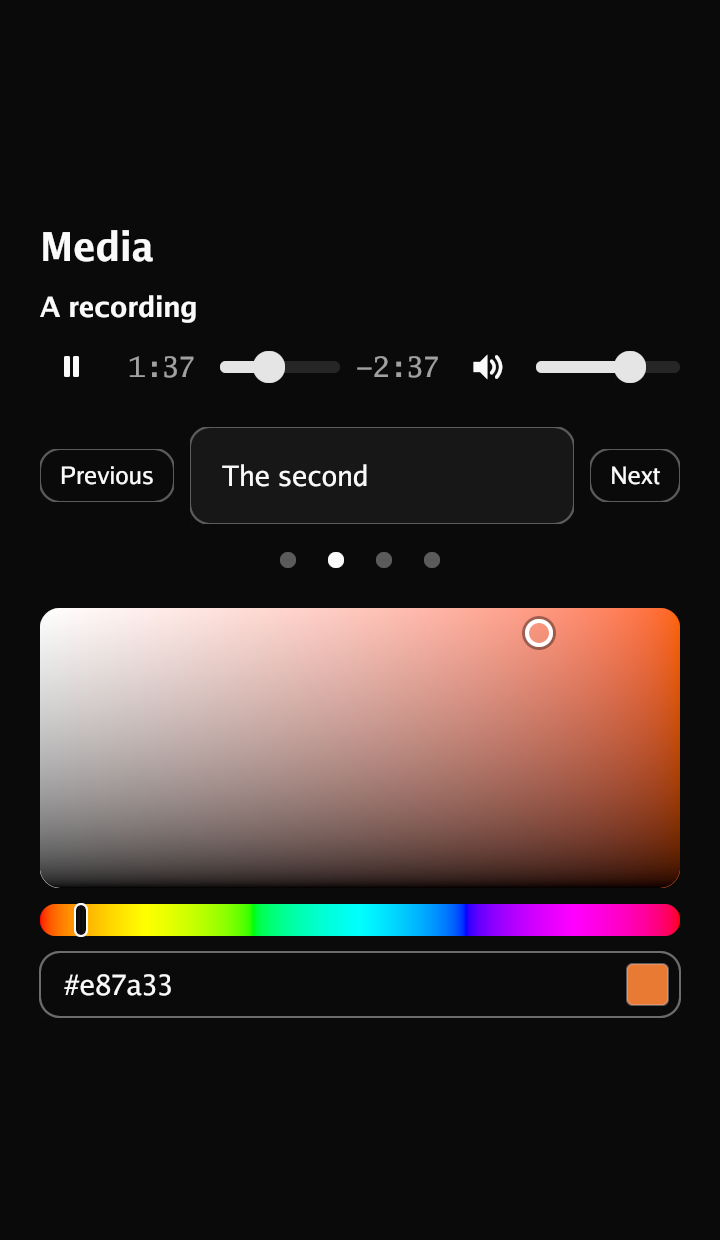
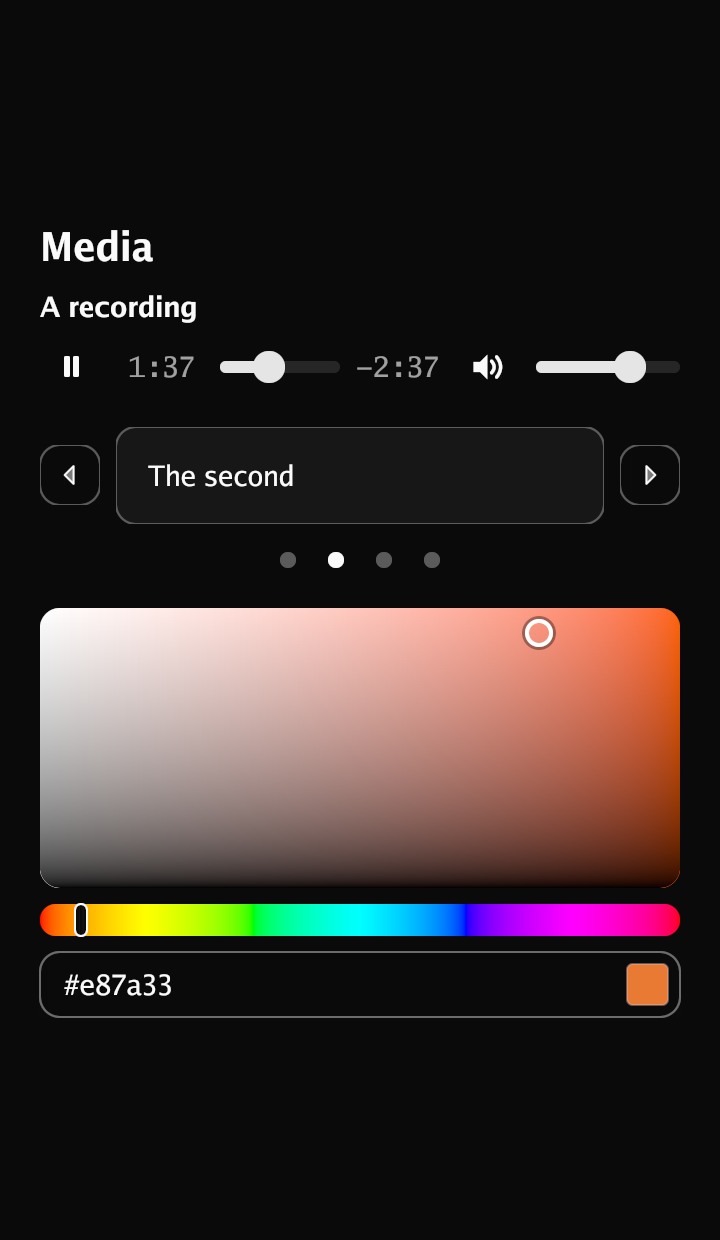
Carousel: draw the steps as arrows with names of the caller's, so the slides keep their room
The steps were the words "Previous" and "Next", on a screen in Portuguese, and
took 150 of the 358 points a phone has: the slide of a carousel with arrows was
190 points wide. They are arrows now, and CarouselProps takes PreviousLabel and
NextLabel for a screen reader, which Kyse's takes as well, defaulting to its
"Previous slide" and "Next slide".

diff --git a/widget/carousel.go b/widget/carousel.go
@@ -12,15 +12,17 @@ import (
 	"github.com/arandu-io/ayra/engine/op/clip"
 	"github.com/arandu-io/ayra/engine/op/paint"
 	"github.com/arandu-io/ayra/engine/unit"
+	"github.com/arandu-io/ayra/icons"
 	"github.com/arandu-io/ayra/theme"
 )
 
-// The words on the two steps. They are the words the pager already uses, so
-// that the two controls a screen puts under a row of things say the same thing
-// -- and so that a translation has one string to find rather than two.
+// The names of the two steps when the caller gives none, which are Kyse's. They
+// are what a screen reader says: the steps are drawn as arrows, because a word on
+// each of them in a language the application is not in -- "Previous" on a
+// Portuguese screen -- is text nobody wrote and nobody can translate.
 const (
-	previousStep = "Previous"
-	nextStep     = "Next"
+	previousStep = "Previous slide"
+	nextStep     = "Next slide"
 )
 
 // Carousel is the state half: which slide is at the front, the presses that
@@ -139,6 +141,10 @@ type CarouselProps struct {
 	Dots bool
 	// Arrows draws the two steps either side of the window.
 	Arrows bool
+	// PreviousLabel and NextLabel name the two steps for a screen reader, which
+	// is all that names them: they are drawn as arrows. Empty says "Previous
+	// slide" and "Next slide", as Kyse does.
+	PreviousLabel, NextLabel string
 	// Gap is the room between one slide and the next, and between the window
 	// and the steps. Zero takes eight points: slides with nothing between them
 	// read as one wide picture rather than as three.
@@ -221,8 +227,8 @@ func (p CarouselProps) layout(c ayra.Context, state *Carousel, slide func(c ayra
 		measure := op.Record(c.Ops)
 		inner := c
 		inner.Constraints.Min = image.Point{}
-		room = p.arrow(previousStep, back).Layout(inner, &state.previous).Size.X
-		room += p.arrow(nextStep, forward).Layout(inner, &state.next).Size.X
+		room = p.arrow(orDefault(p.PreviousLabel, previousStep), back).withIcon(innerIcon("carousel", "CaretLeft")).Layout(inner, &state.previous).Size.X
+		room += p.arrow(orDefault(p.NextLabel, nextStep), forward).withIcon(innerIcon("carousel", "CaretRight")).Layout(inner, &state.next).Size.X
 		measure.Stop()
 	}
 	steps := p.Arrows && arrowsFit(c.Constraints.Max.X, room+2*gap)
@@ -234,7 +240,7 @@ func (p CarouselProps) layout(c ayra.Context, state *Carousel, slide func(c ayra
 		row = append(row, layout.Rigid(func(gtx layout.Context) layout.Dimensions {
 			inner := c.With(gtx)
 			inner.Constraints.Min = image.Point{}
-			return p.arrow(previousStep, back).Layout(inner, &state.previous)
+			return p.arrow(orDefault(p.PreviousLabel, previousStep), back).withIcon(innerIcon("carousel", "CaretLeft")).Layout(inner, &state.previous)
 		}))
 	}
 	row = append(row, layout.Flexed(1, func(gtx layout.Context) layout.Dimensions {
@@ -244,7 +250,7 @@ func (p CarouselProps) layout(c ayra.Context, state *Carousel, slide func(c ayra
 		row = append(row, layout.Rigid(func(gtx layout.Context) layout.Dimensions {
 			inner := c.With(gtx)
 			inner.Constraints.Min = image.Point{}
-			return p.arrow(nextStep, forward).Layout(inner, &state.next)
+			return p.arrow(orDefault(p.NextLabel, nextStep), forward).withIcon(innerIcon("carousel", "CaretRight")).Layout(inner, &state.next)
 		}))
 	}
 
@@ -480,6 +486,12 @@ func (p CarouselProps) dotInk(t theme.Theme, page, first int) color.NRGBA {
 // disabled step says there is no more, in the place the step was.
 func (p CarouselProps) arrow(label string, available bool) ButtonProps {
 	return ButtonProps{Label: label, Variant: Outline, Size: Small, Disabled: p.Disabled || !available}
+}
+
+// withIcon draws the step as an arrow, with the label kept as its name.
+func (b ButtonProps) withIcon(icon icons.Icon) ButtonProps {
+	b.Icon, b.IconOnly, b.Size = icon, true, Icon
+	return b
 }
 
 // view is how many slides are on screen at once.

diff --git a/icons_parity_test.go b/icons_parity_test.go
@@ -91,6 +91,10 @@ var withoutIcons = map[string]map[string]string{
 
 // extraIcons are icons this half draws that Kyse does not, and why.
 var extraIcons = map[string]map[string]string{
+	"carousel": {
+		"CaretLeft":  "Kyse draws the steps as the characters of the stylesheet; the native half draws them as the arrows of the set, which are the same shape, so that the step has a name for a screen reader and no word of any language on it",
+		"CaretRight": "Kyse draws the steps as the characters of the stylesheet; the native half draws them as the arrows of the set, which are the same shape, so that the step has a name for a screen reader and no word of any language on it",
+	},
 	"date-time-picker": {
 		"CaretLeft":  "the year stepper of the month picker, where Kyse relies on the browser's own month field; the arrows are those of the calendar",
 		"CaretRight": "the year stepper of the month picker, where Kyse relies on the browser's own month field; the arrows are those of the calendar",

diff --git a/widget/carousel_phone_test.go b/widget/carousel_phone_test.go
@@ -1,0 +1,27 @@
+package widget_test
+
+import (
+	"testing"
+
+	"github.com/arandu-io/ayra"
+	"github.com/arandu-io/ayra/widget"
+)
+
+// TestCarouselStepsAreArrowsAndLeaveTheSlidesRoom: the steps were the words
+// "Previous" and "Next", on a Portuguese screen, and took 150 points of the 358
+// a phone has.
+func TestCarouselStepsAreArrowsAndLeaveTheSlidesRoom(t *testing.T) {
+	p := phone(300)
+	var state widget.Carousel
+	got := 0
+	p.draw(func(c ayra.Context) ayra.Dimensions {
+		return widget.CarouselProps{Count: 4, Arrows: true, PreviousLabel: "Anterior", NextLabel: "Próxima"}.
+			Layout(c, &state, func(c ayra.Context, _ int) ayra.Dimensions {
+				got = c.Constraints.Max.X
+				return widget.TextProps{Content: "Slide"}.Layout(c)
+			})
+	})
+	if got < 250 {
+		t.Errorf("a slide has %d points between the steps of a 390-wide window, want at least 250", got)
+	}
+}

diff --git a/widget/inner.go b/widget/inner.go
@@ -38,6 +38,7 @@ import (
 var innerIcons = map[string]map[string]func() icons.Icon{
 	"accordion":         {"CaretDown": icons.CaretDown},
 	"breadcrumb":        {"CaretRight": icons.CaretRight},
+	"carousel":          {"CaretLeft": icons.CaretLeft, "CaretRight": icons.CaretRight},
 	"calendar":          {"CaretLeft": icons.CaretLeft, "CaretRight": icons.CaretRight},
 	"checkbox":          {"Check": icons.Check},
 	"collapsible":       {"CaretDown": icons.CaretDown},
